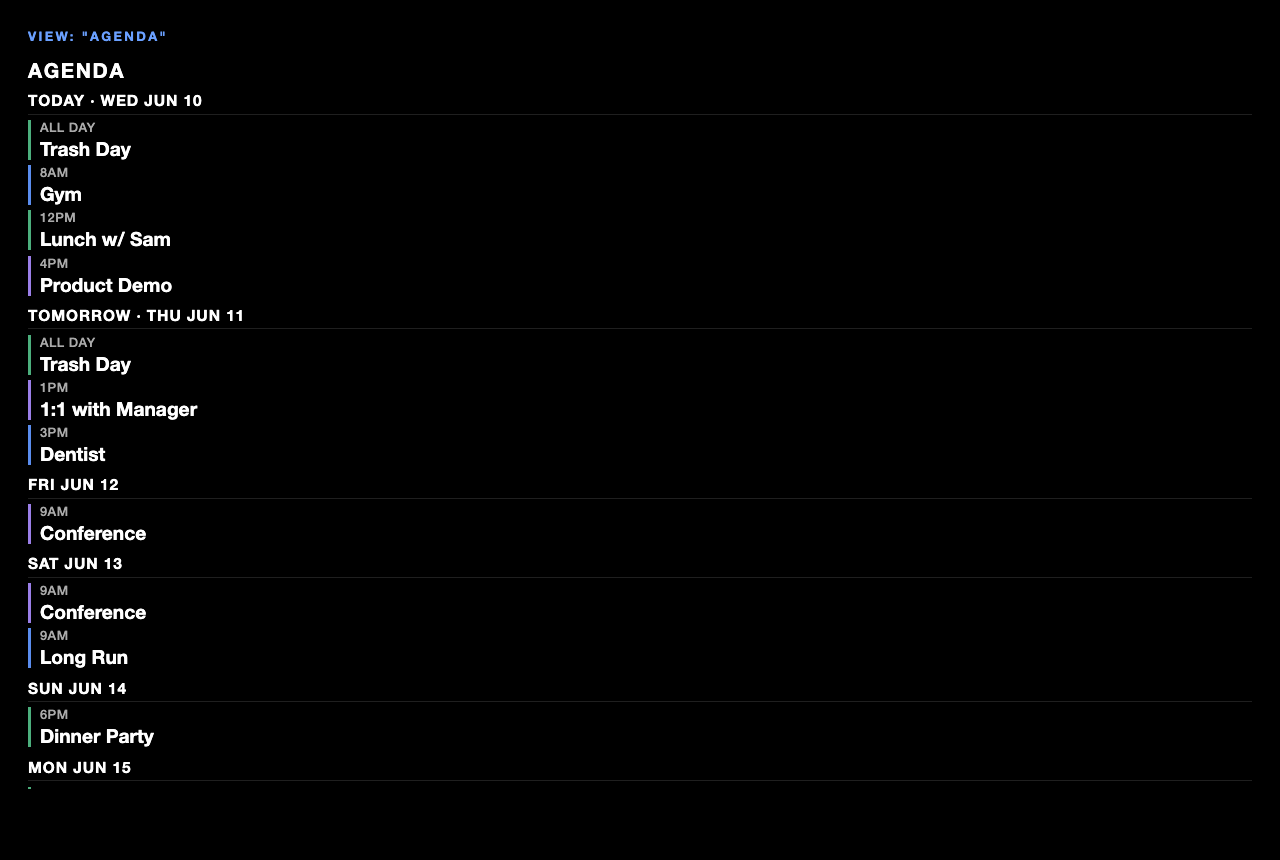
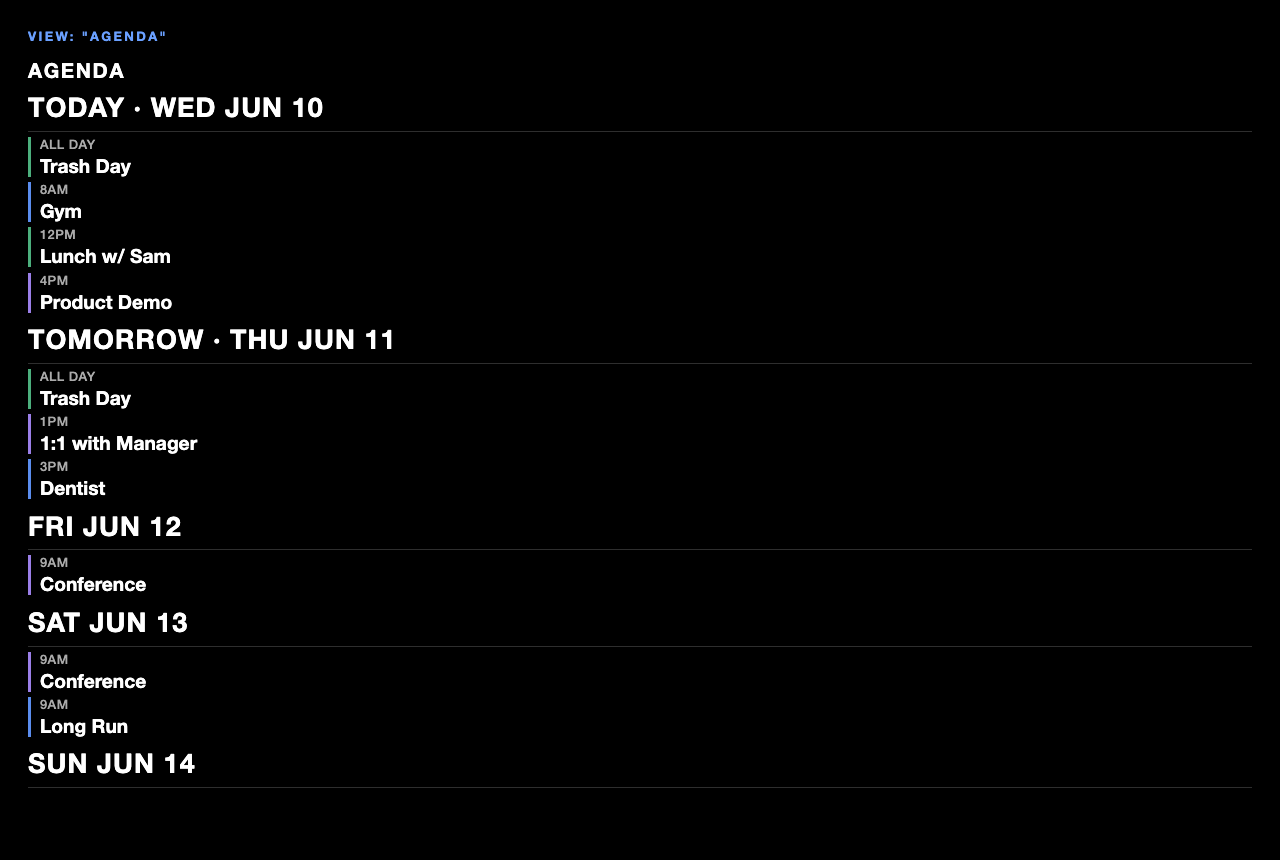
Make agenda day headers larger and bolder for quick scanning
Bump .mmm-cg-agenda-date to clamp(18px,2.1vw,34px) / weight 800 so the
day grouping (Today, Tomorrow, dates) reads at a glance. Refresh the
embedded agenda screenshot.

Changed region(s): [[0.0, 0.0907, 0.3125, 0.907]]

diff --git a/MMM-CalendarGrid.css b/MMM-CalendarGrid.css
@@ -218,13 +218,13 @@
 }
 
 .mmm-cg-agenda-date {
-  font-size: clamp(12px, 1.2vw, 20px);
-  font-weight: 700;
+  font-size: clamp(18px, 2.1vw, 34px);
+  font-weight: 800;
   color: #fff;
   text-transform: uppercase;
-  letter-spacing: 0.06em;
-  border-bottom: 1px solid rgba(255, 255, 255, 0.12);
-  padding-bottom: 0.3em;
+  letter-spacing: 0.04em;
+  border-bottom: 1px solid rgba(255, 255, 255, 0.18);
+  padding-bottom: 0.25em;
 }
 
 .mmm-cg-empty {
